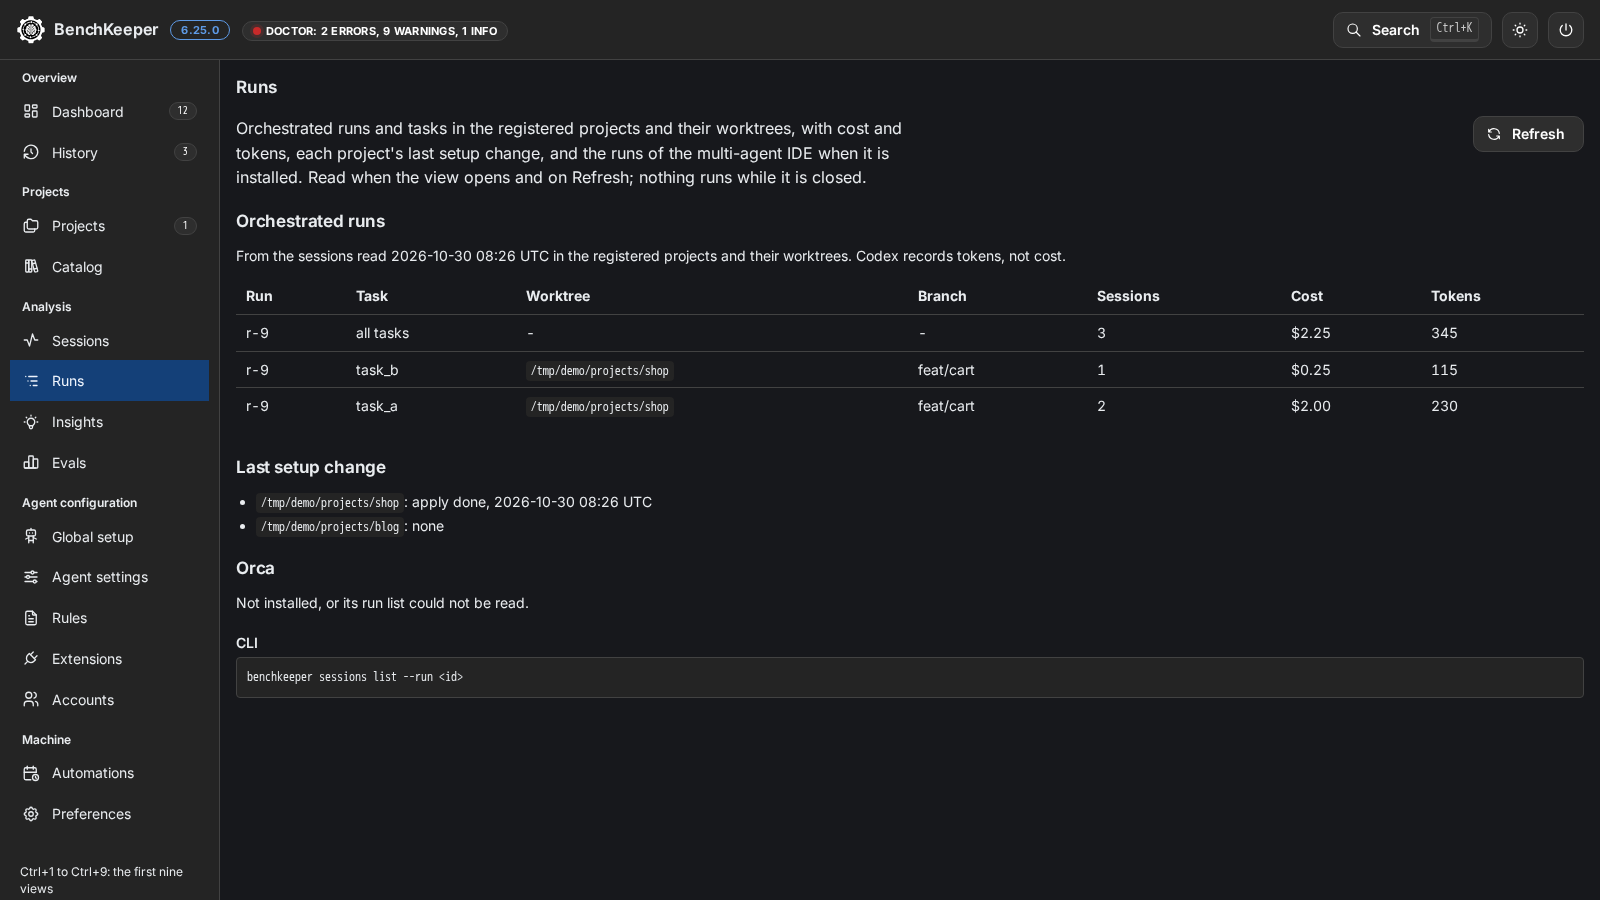
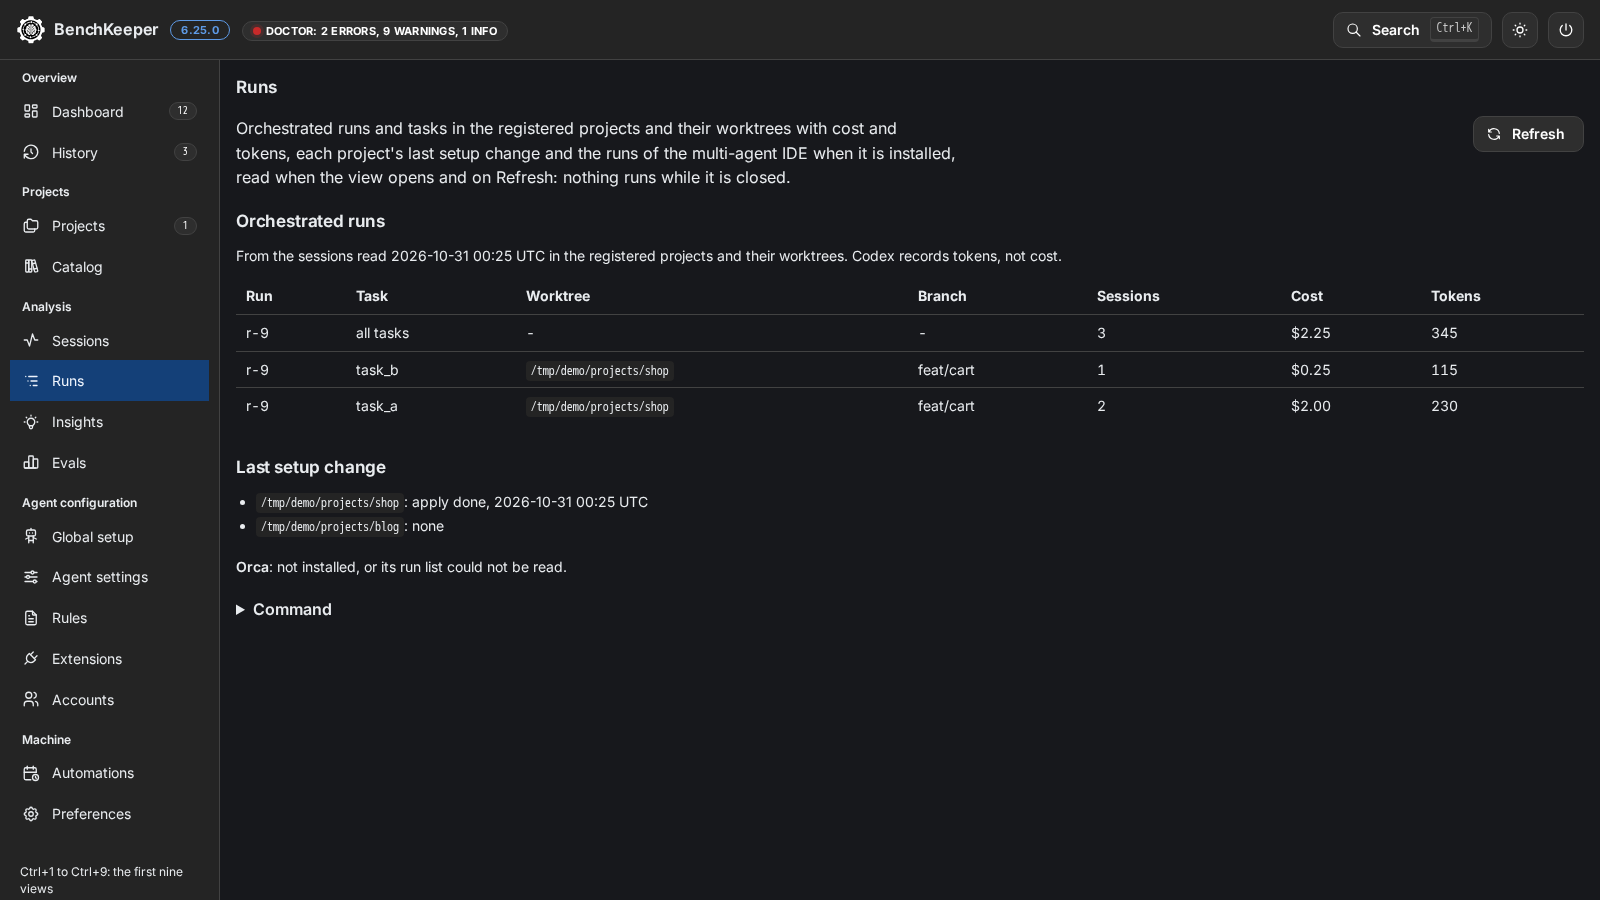
feat(app): one-sentence Runs intro and one-line empty sections (#846)
* feat(app): one-sentence Runs intro and one-line empty sections

The Runs view opens with one sentence instead of four lines. A section
without data (no orchestrated runs, no registered project, the multi-agent
IDE not installed or without runs) is one line with its title and the
reason instead of a heading and a sentence; a section with data keeps its
heading. The command line moves into a closed Command fold. Every text of
the view stays.

Refs #811

* docs: add the 390 px Runs screenshots for the pull request

Refs #811

* docs: remove the 390 px Runs screenshots again

Refs #811

* fix(app): keep the level-3 heading in a one-line empty Runs section

Refs #811

diff --git a/app/ui/runs.jsx b/app/ui/runs.jsx
@@ -1,4 +1,4 @@
-import { Button, Code, Group, List, Select, Stack, Table, Text } from '@mantine/core';
+import { Button, Code, Group, List, Select, Stack, Table, Text, Title } from '@mantine/core';
 import { IconRefresh } from '@tabler/icons-react';
 import { useState } from 'react';
 import { api } from './api.js';
@@ -11,6 +11,8 @@ const Scroll = ({ label, children }) => (
     <Table aria-label={label}>{children}</Table>
   </Table.ScrollContainer>
 );
+// A section without data: one line with its title and the reason.
+const Empty = ({ title, children }) => <Text size="sm" component="section" aria-label={title}><Title order={3} fz="sm" lh="inherit" display="inline">{title}</Title>: {children}</Text>;
 
 // Runs and tasks, read when the view opens and on Refresh; no timer. The rows hold ids, states and counts, never a prompt or worker output.
 export function Runs() {
@@ -18,14 +20,14 @@ export function Runs() {
   return (
     <Stack gap="lg">
       <Group justify="space-between" align="flex-start">
-        <Text maw={720}>Orchestrated runs and tasks in the registered projects and their worktrees, with cost and tokens, each project's last setup change, and the runs of the multi-agent IDE when it is installed. Read when the view opens and on Refresh; nothing runs while it is closed.</Text>
+        <Text maw={720}>Orchestrated runs and tasks in the registered projects and their worktrees with cost and tokens, each project's last setup change and the runs of the multi-agent IDE when it is installed, read when the view opens and on Refresh: nothing runs while it is closed.</Text>
         <Button leftSection={icon(IconRefresh)} variant="default" loading={runs.loading} onClick={runs.reload}>Refresh</Button>
       </Group>
       <Loading state={runs} label="runs">{(d) => (
         <Stack gap="lg">
-          <Section title="Orchestrated runs">
-            <Text size="sm">From the sessions read {d.scanned.slice(0, 16).replace('T', ' ')} UTC in the registered projects and their worktrees. Codex records tokens, not cost.</Text>
-            {d.runs.length ? (
+          {d.runs.length ? (
+            <Section title="Orchestrated runs">
+              <Text size="sm">From the sessions read {d.scanned.slice(0, 16).replace('T', ' ')} UTC in the registered projects and their worktrees. Codex records tokens, not cost.</Text>
               <Scroll label="Orchestrated runs and tasks">
                 <Table.Thead><Table.Tr><Table.Th>Run</Table.Th><Table.Th>Task</Table.Th><Table.Th>Worktree</Table.Th><Table.Th>Branch</Table.Th><Table.Th>Sessions</Table.Th><Table.Th>Cost</Table.Th><Table.Th>Tokens</Table.Th></Table.Tr></Table.Thead>
                 <Table.Tbody>
@@ -42,17 +44,17 @@ export function Runs() {
                   )))}
                 </Table.Tbody>
               </Scroll>
-            ) : <Text size="sm">No orchestrated sessions in a registered project.</Text>}
-          </Section>
-          <Section title="Last setup change">
-            {d.setup.length ? (
+            </Section>
+          ) : <Empty title="Orchestrated runs">no orchestrated sessions in a registered project or its worktrees, from the sessions read {d.scanned.slice(0, 16).replace('T', ' ')} UTC. Codex records tokens, not cost.</Empty>}
+          {d.setup.length ? (
+            <Section title="Last setup change">
               <List spacing={4} size="sm">
                 {d.setup.map((p) => <List.Item key={p.project}><Code>{p.project}</Code>: {p.lastChange ? `${p.lastChange.kind} ${p.lastChange.status}, ${p.lastChange.time.slice(0, 16).replace('T', ' ')} UTC` : 'none'}</List.Item>)}
               </List>
-            ) : <Text size="sm">No project is registered.</Text>}
-          </Section>
-          <Section title={d.ide.name}>
-            {d.ide.runs === null ? <Text size="sm">Not installed, or its run list could not be read.</Text> : !d.ide.runs.length ? <Text size="sm">No runs.</Text> : (
+            </Section>
+          ) : <Empty title="Last setup change">no project is registered.</Empty>}
+          {d.ide.runs === null ? <Empty title={d.ide.name}>not installed, or its run list could not be read.</Empty> : !d.ide.runs.length ? <Empty title={d.ide.name}>no runs.</Empty> : (
+            <Section title={d.ide.name}>
               <Scroll label={`${d.ide.name} runs`}>
                 <Table.Thead><Table.Tr><Table.Th>Run</Table.Th><Table.Th>Updated</Table.Th><Table.Th>Tasks</Table.Th><Table.Th>States</Table.Th></Table.Tr></Table.Thead>
                 <Table.Tbody>
@@ -66,11 +68,15 @@ export function Runs() {
                   ))}
                 </Table.Tbody>
               </Scroll>
-            )}
-          </Section>
+            </Section>
+          )}
         </Stack>
       )}</Loading>
-      <Cli>benchkeeper sessions list --run &lt;id&gt;</Cli>
+      {/* Reference, not status: folded until opened. */}
+      <details>
+        <summary><Text component="span" fw={600}>Command</Text></summary>
+        <Stack mt="md"><Cli>benchkeeper sessions list --run &lt;id&gt;</Cli></Stack>
+      </details>
     </Stack>
   );
 }

diff --git a/web/src/components/AppPage.tsx b/web/src/components/AppPage.tsx
@@ -81,7 +81,7 @@ export const VIEWS: { id: string; view: string; title: string; shot: string; alt
   },
   {
     id: 'runs', view: 'runs', title: 'Runs', shot: 'runs',
-    alt: 'The Runs view: the orchestrated runs table with run, task, worktree, branch, sessions, cost and tokens, the last setup change of each registered project, and the section of the multi-agent IDE, here not installed.',
+    alt: 'The Runs view: the orchestrated runs table with run, task, worktree, branch, sessions, cost and tokens, the last setup change of each registered project, one line saying the multi-agent IDE is not installed, and the folded command.',
     text: [
       'Orchestrated runs and their tasks in the registered projects and their worktrees, with sessions, cost (Claude Code) and tokens (Codex), each project\'s last setup change, and the runs of the multi-agent IDE when it is installed.',
       'The view reads when it opens and on Refresh, with no timer. The rows hold ids, states and counts, never a prompt or worker output.',
